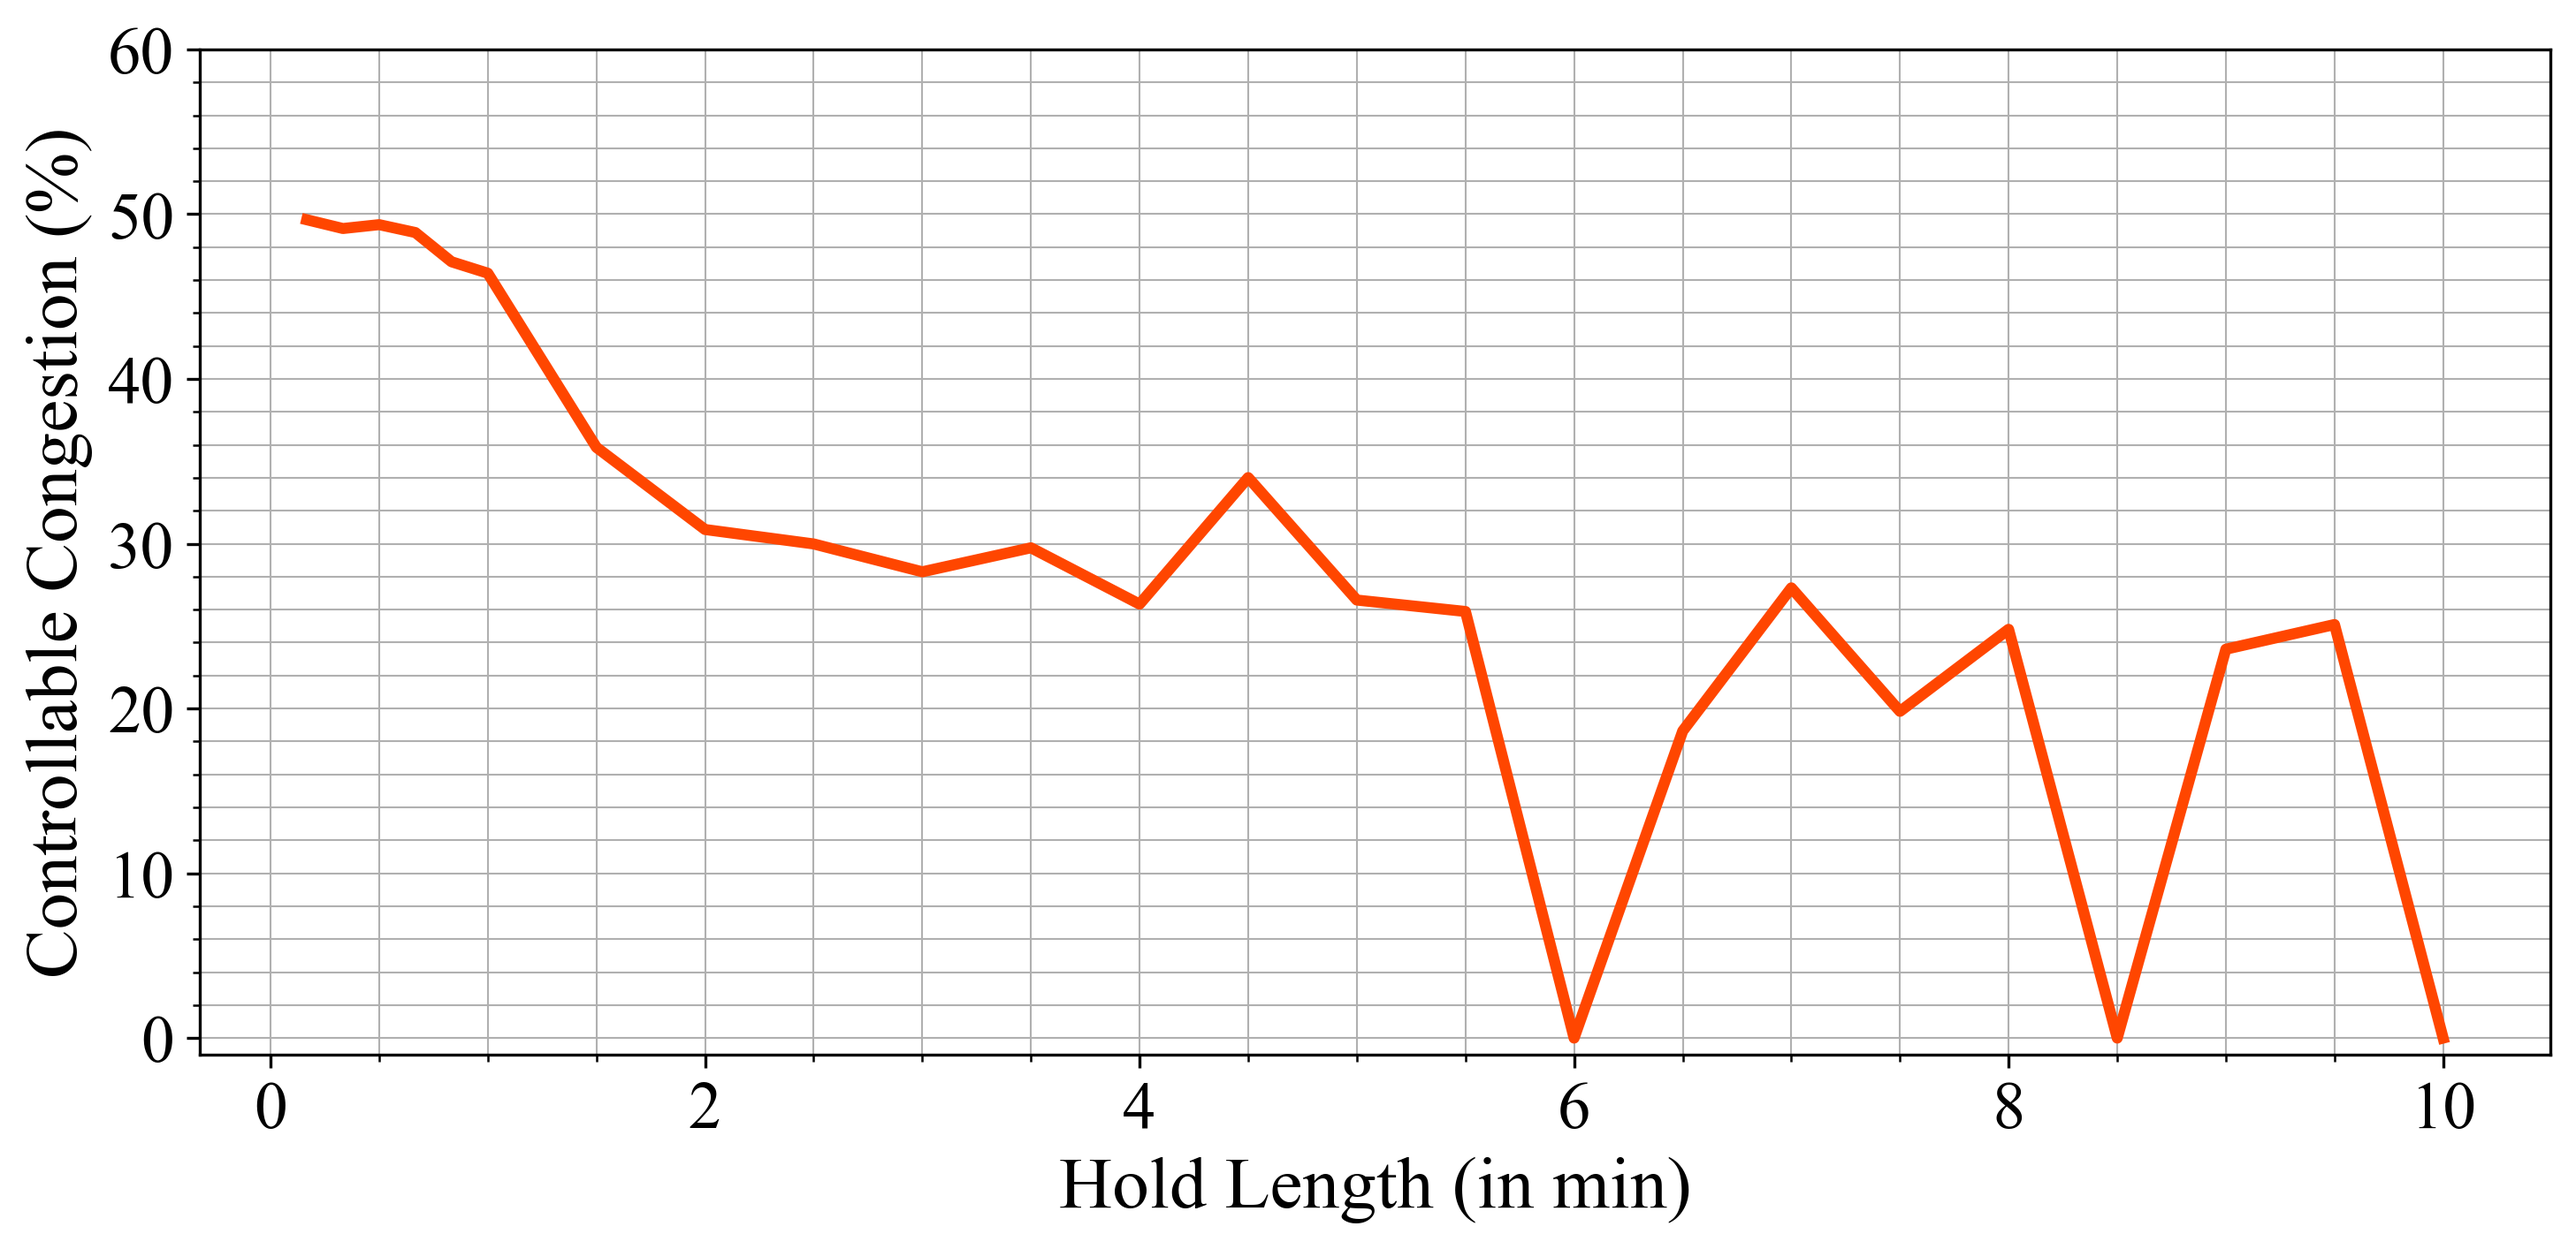
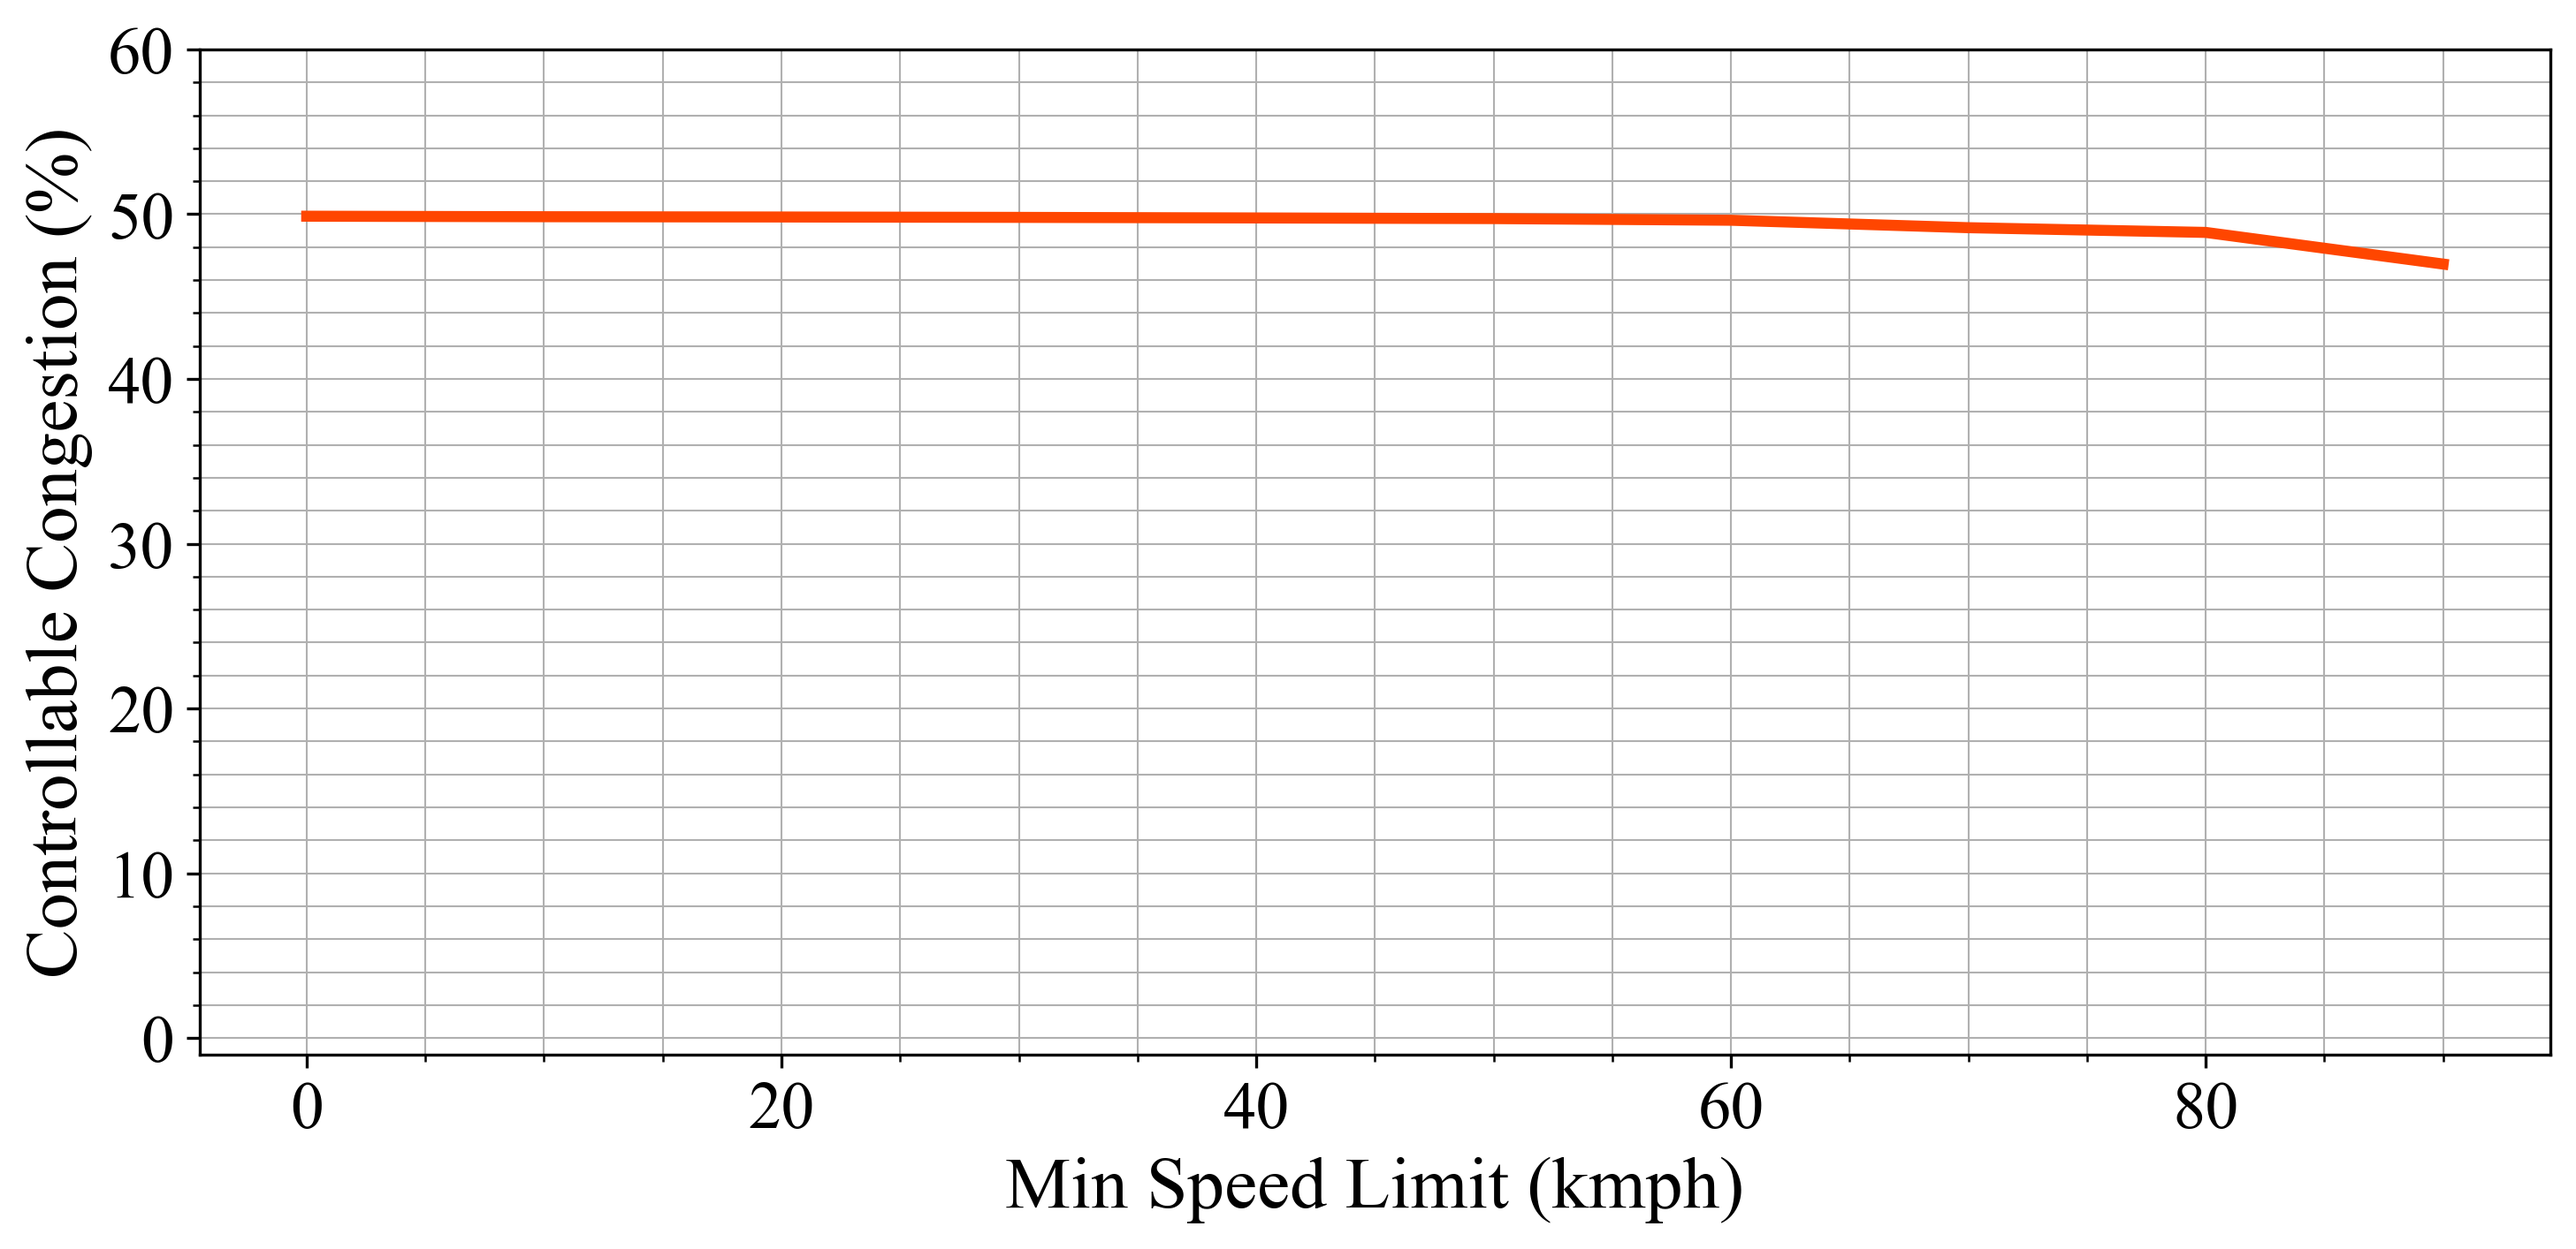
added plotting for i24 time space diagrams

diff --git a/experiments/i24_tsd.py b/experiments/i24_tsd.py
@@ -1,0 +1,160 @@
+"""Velocity time-space diagrams for the I-24 case study.
+
+One row per date; columns are the observed field, the calibrated model with no
+control, and the model under optimal speed limit control. The default pair
+(11/28 and 12/02) is nearly identical in total travel time, total delay and
+delay per vehicle, yet differs by a factor of more than two in controllable
+congestion.
+
+Run from anywhere:
+
+    python experiments/i24_tsd.py
+
+Saves to figs/i24_tsd.png and prints the delay / CC figures for each row.
+"""
+
+import os
+import sys
+
+import numpy as np
+import matplotlib as mpl
+import matplotlib.pyplot as plt
+
+REPO = os.path.dirname(os.path.dirname(os.path.abspath(__file__)))
+sys.path.insert(0, os.path.join(REPO, "src"))
+
+from cc_analysis import (                    # noqa: E402
+    L, time_step, RESULTS_ROOT,
+    load_day_data, get_ff_tts, format_date_label,
+)
+from traffic_sim import run_metanet_sim      # noqa: E402
+
+SAVE_PATH = os.path.join(REPO, "figs", "i24_tsd.png")
+
+DATES = ["11_28", "12_02"]
+# Segments 0 and 1 are left uncontrolled (see Section 5.2); the control zone
+# begins at this distance along the corridor.
+CONTROL_ZONE_START_KM = 2 * L
+SHOW_OBSERVED = True
+TEXT_FONTSIZE = 18
+
+
+def run_day(date):
+    """Observed, uncontrolled and controlled velocity fields for one date."""
+    day = load_day_data(date)
+    params = day["static_params"]
+
+    _, v_sim, _, tts_sim = run_metanet_sim(
+        time_step, L, day["init_state"], day["data_inflow"],
+        day["ds_density_norm"], params, lanes=day["lane_dict"],
+        vsl_speeds=None, plotting=True, real_data=True,
+    )
+
+    vsl_path = f"{RESULTS_ROOT}/i24_{date}/calibration_static/fixed_ramping/optimal_vsl.npy"
+    vsl = np.load(vsl_path)
+
+    _, v_opt, _, tts_opt = run_metanet_sim(
+        time_step, L, day["init_state"], day["data_inflow"],
+        day["ds_density_norm"], params, lanes=day["lane_dict"],
+        vsl_speeds=vsl, plotting=True, real_data=False,
+    )
+
+    v_free = params["v_free"]
+    ff_ttt = get_ff_tts(day["data_inflow"], time_step, L,
+                        np.max(v_free, axis=0) if v_free.ndim == 2 else v_free)
+    delay, opt_delay = tts_sim - ff_ttt, tts_opt - ff_ttt
+    cc = float(np.clip((delay - opt_delay) / delay * 100, 0, 100))
+
+    return {
+        "date": date,
+        "label": format_date_label(date),
+        "observed": day["v_trimmed"],
+        "no_control": v_sim[:-1, :],
+        "controlled": v_opt[:-1, :],
+        "tts": tts_sim,
+        "delay": delay,
+        "opt_delay": opt_delay,
+        "cc": cc,
+        "num_segments": day["num_segments"],
+    }
+
+
+def plot(results, save_path=SAVE_PATH):
+    original_font = mpl.rcParams["font.family"]
+    mpl.rcParams["font.family"] = "serif"
+    mpl.rcParams["font.serif"] = ["Times New Roman"]
+
+    panels = ([("observed", "Observed")] if SHOW_OBSERVED else []) + [
+        ("no_control", "No control"),
+        ("controlled", "Optimal speed limit control"),
+    ]
+    n_rows, n_cols = len(results), len(panels)
+
+    corridor_km = results[0]["num_segments"] * L
+    duration_min = results[0]["observed"].shape[0] * time_step * 60
+    extent = [0, duration_min, 0, corridor_km]
+    vmax = float(np.ceil(max(r["observed"].max() for r in results) / 10) * 10)
+
+    fig, axes = plt.subplots(n_rows, n_cols,
+                             figsize=(4.6 * n_cols, 3.6 * n_rows),
+                             sharex=True, sharey=True, squeeze=False)
+
+    panel_labels = "abcdefghi"
+    im = None
+    for row, res in enumerate(results):
+        for col, (key, title) in enumerate(panels):
+            ax = axes[row][col]
+            im = ax.imshow(res[key].T, aspect="auto", origin="lower",
+                           cmap="RdYlGn", interpolation="none",
+                           vmin=0, vmax=vmax, extent=extent)
+            ax.axhline(CONTROL_ZONE_START_KM, color="blue",
+                       linestyle="--", linewidth=2.5)
+
+            head = f"({panel_labels[row * n_cols + col]}) {res['label']}, {title}"
+            if key == "no_control":
+                head += f"\nDelay = {res['delay']:.0f} veh-hrs"
+            elif key == "controlled":
+                head += (f"\nDelay = {res['opt_delay']:.0f} veh-hrs, "
+                         f"CC = {res['cc']:.0f}\\%".replace("\\%", "%"))
+            ax.set_title(head, fontsize=TEXT_FONTSIZE - 5,
+                         fontname="Times New Roman")
+
+            if col == 0:
+                ax.set_ylabel("Distance (km)", fontsize=TEXT_FONTSIZE - 3,
+                              fontname="Times New Roman")
+            if row == n_rows - 1:
+                ax.set_xlabel("Time (min)", fontsize=TEXT_FONTSIZE - 3,
+                              fontname="Times New Roman")
+
+            ax.set_xticks(np.arange(0, duration_min + 1, 15))
+            ax.set_yticks(np.arange(0, corridor_km + 0.1, 1))
+            ax.tick_params(labelsize=TEXT_FONTSIZE - 7)
+            for lab in ax.get_xticklabels() + ax.get_yticklabels():
+                lab.set_fontname("Times New Roman")
+
+    fig.subplots_adjust(right=0.89, hspace=0.32, wspace=0.08)
+    cbar_ax = fig.add_axes([0.91, 0.12, 0.015, 0.76])
+    cbar = fig.colorbar(im, cax=cbar_ax)
+    cbar.set_label("Velocity (km/hr)", fontsize=TEXT_FONTSIZE - 3,
+                   fontname="Times New Roman")
+    cbar.ax.tick_params(labelsize=TEXT_FONTSIZE - 7)
+    for lab in cbar.ax.get_yticklabels():
+        lab.set_fontname("Times New Roman")
+
+    os.makedirs(os.path.dirname(save_path), exist_ok=True)
+    plt.savefig(save_path, dpi=300, bbox_inches="tight", pad_inches=0.1)
+    print(f"\nFigure saved to: {save_path}")
+    mpl.rcParams["font.family"] = original_font
+    return fig
+
+
+if __name__ == "__main__":
+    results = []
+    for date in DATES:
+        res = run_day(date)
+        results.append(res)
+        print(f"{res['label']}: TTT {res['tts']:.2f} veh-hrs, "
+              f"delay {res['delay']:.2f} -> {res['opt_delay']:.2f} veh-hrs, "
+              f"CC = {res['cc']:.2f}%")
+
+    plot(results)
